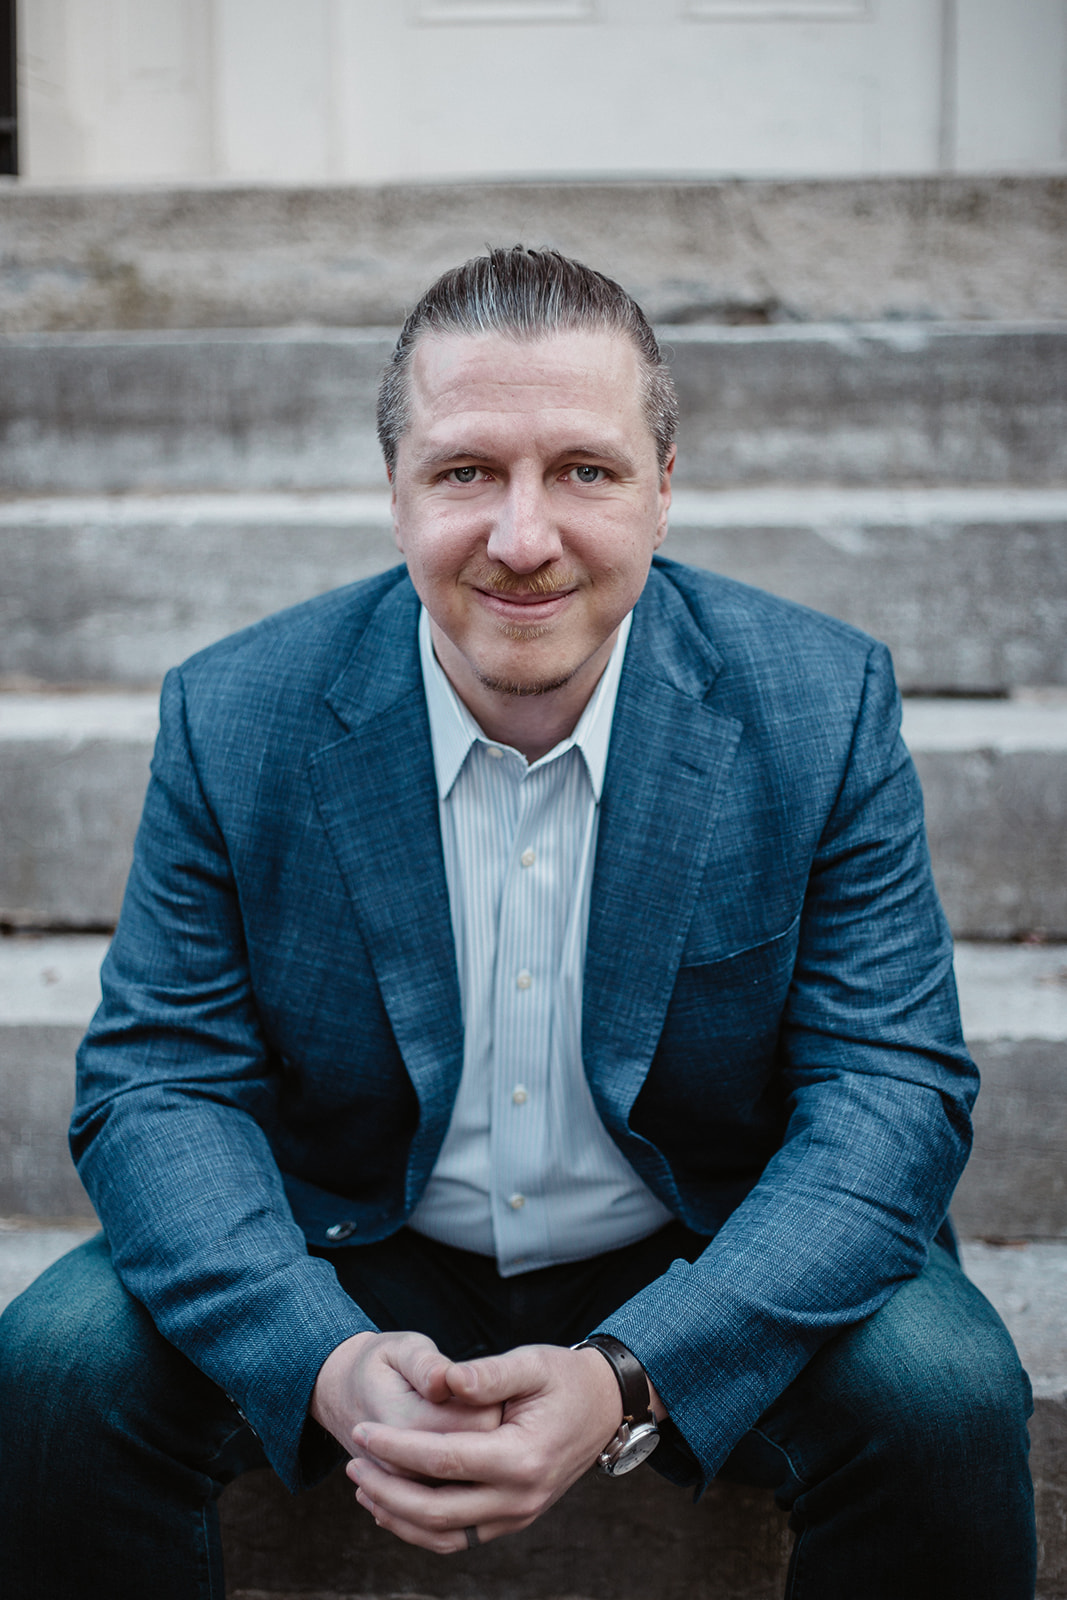
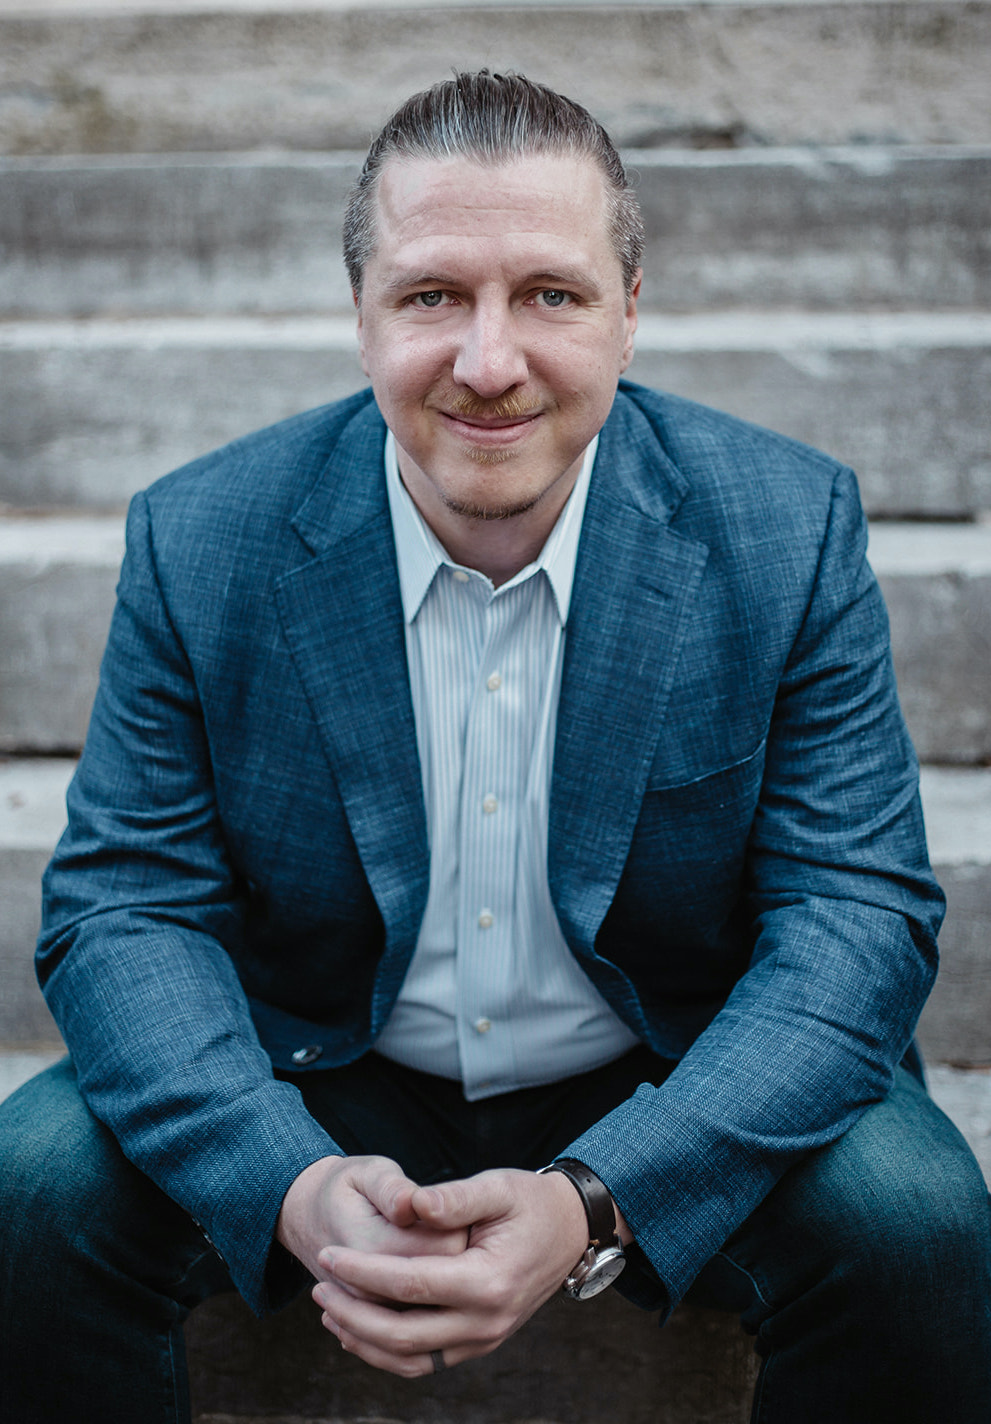
Refine template, styling, and data
- Suppress education and dated experiences
- Change image to cropped version
- Adjust vertical alignment of contact icon + link
- Add print media style overrides

diff --git a/src/resumes/material-dark-extended.vue b/src/resumes/material-dark-extended.vue
@@ -7,29 +7,6 @@
     <div class="section-headline">
       {{ lang.contact }}
     </div>
-    <div v-if="person.birth" class="item">
-      <div class="icon">
-        <i class="material-icons">account_circle</i>
-      </div>
-      <div class="text">
-        <ul>
-          <li> {{ lang.born }} {{person.birth.year}} {{ lang.bornIn }} {{person.birth.location}}</li>
-        </ul>
-      </div>
-    </div>
-
-    <div class="item">
-      <div class="icon">
-        <i class="material-icons">location_city</i>
-      </div>
-      <div class="text">
-        <ul>
-          <li>{{person.contact.street}}</li>
-          <li>{{person.contact.city}}</li>
-        </ul>
-      </div>
-    </div>
-
     <a :href="contactLinks.phone">
       <div class="item">
         <div class="icon">
@@ -57,7 +34,7 @@
         <div class="icon">
           <i class="fa fa-github"></i>
         </div>
-        <div class="text">
+        <div class="text github">
           <span>@{{person.contact.github}}</span>
           <span>github.com/{{person.contact.github}}</span>
         </div>
@@ -75,15 +52,31 @@
       </div>
     </a>
 
-    <div class="item last">
+    <div class="item">
       <div class="section-headline">
-        {{ lang.skills }}
+        {{ lang.languages }}
       </div>
-      <div class="skill" v-for="skill in person.skills" :key="skill.name">
+      <div class="skill" v-for="language in person.languages" :key="language.name">
         <div class="right">
-          <span>{{skill.name}}&nbsp;</span>
+          <span>{{language.name}}&nbsp;</span>
           <div class="progress">
-            <div class="determinate" :style="'width: '+skill.level+'%;'">
+            <div class="determinate" :style="'width: '+language.level+'%;'">
+              <i class="fa fa-circle"></i>
+            </div>
+          </div>
+        </div>
+      </div>
+    </div>
+
+    <div class="item last">
+      <div class="section-headline tools">
+        {{ lang.tools }}
+      </div>
+      <div class="skill" v-for="tool in person.tools" :key="tool.name">
+        <div class="right">
+          <span>{{tool.name}}&nbsp;</span>
+          <div class="progress">
+            <div class="determinate" :style="'width: '+tool.level+'%;'">
               <i class="fa fa-circle"></i>
             </div>
           </div>
@@ -106,17 +99,13 @@
       <div class="block-helper"></div>
       <h3 class="headline">{{experience.position}} - {{experience.company}}</h3>
         <div class="subheadline">{{experience.timeperiod}}</div>
-        <p class="info" v-for="item in experience.description">
-          {{item}}
-        </p>
+        <p class="info" v-for="item in experience.description">{{item}}</p>
     </div>
-    <div class="section-headline">{{ lang.education }}</div>
+    <div class="section-headline" v-if="person.education">{{ lang.education }}</div>
     <div class="block" v-for="education in person.education" :key="education.degree">
       <div class="block-helper"></div>
       <div class="headline">{{education.degree}}</div>
-      <p class="info">
-        {{education.timeperiod}}, {{education.description}}
-      </p>
+      <div class="subheadline">{{education.timeperiod}}</div>
     </div>
   </div>
 
@@ -150,13 +139,12 @@ a {
 }
 .title {
   right:25px;
-  padding-left:20px;
   padding-top:20px;
   bottom:25px;
   h2 {
     text-transform:uppercase;
     display:block;
-    font-size:1.17em;
+    font-size:23pt;
     -webkit-margin-before:1em;
     -webkit-margin-after:0;
     -webkit-margin-start:0;
@@ -183,7 +171,7 @@ a {
     color:rgba(63,61,60,0.71);
     display:block;
     font-size:0.67em;
-    font-size:10pt;
+    font-size:15pt;
     -webkit-margin-before:0;
     -webkit-margin-after:1em;
     -webkit-margin-start:0;
@@ -203,11 +191,8 @@ a {
   text-transform:uppercase;
   font-weight:500;
   letter-spacing:3px;
-  font-size:10pt;
+  font-size:15pt;
   opacity:0.8;
-  margin-left:20px;
-  margin-top:40px;
-  margin-bottom:20px;
   color:#3f3d3c;
 }
 .c {
@@ -264,37 +249,49 @@ h4 {
   opacity:1;
 }
 .rightCol {
-  width:63.5%;
+  width:65%;
   height:100%;
   float:right;
   display:flex;
   flex-direction:column;
+  margin-right: 1%;
+  .section-headline {
+    margin-top:30px;
+    margin-bottom:10px;
+  }
   .block {
     width:90%;
     position:relative;
     background-color:#ffffff;
     padding:20px;
-    margin-top:5px;
-    margin-bottom:5px;
+    margin-top:22px;
+    margin-bottom:22px;
     display:inline-block;
     box-shadow:0 2px 5px 0 rgba(0,0,0,0.16), 0 2px 10px 0 rgba(0,0,0,0.12);
     .headline {
-      font-weight:300;
+      font-weight:400;
       display:block;
-      font-size:15px;
-      color:rgba(0,0,0,0.870588);
+      font-size:18px;
+      color:rgba(0,0,0,0.7);
     }
     .subheadline {
       color:rgba(0,0,0,0.541176);
       display:block;
       font-size:14px;
       font-weight:300;
+      padding-top: 3px;
     }
     .info {
       font-size:14px;
       color:rgba(0,0,0,0.870588);
       margin-bottom:0;
-      padding-top:20px;
+      padding:20px 15px 0 15px;
+    }
+    p.info:before {
+      font-family: 'FontAwesome';
+      content: '\f105';
+      margin:0 7px 0 -13px;
+      font-weight: bold;
     }
     .icon {
       width:16%;
@@ -342,7 +339,7 @@ h4 {
   }
 }
 .leftCol {
-  width:35%;
+  width:30%;
   height:100%;
   float:left;
   padding:0;
@@ -354,6 +351,9 @@ h4 {
   display:block;
   .section-headline {
     color:rgba(255,255,255,0.54);
+    padding-left: 15px;
+    margin-top:40px;
+    margin-bottom:20px;
   }
   a {
     color:rgba(255,255,255,0.59);
@@ -366,7 +366,7 @@ h4 {
     background-position:center;
     position:relative;
     width:100%;
-    height:277px;
+    height:440px;
   }
   .item {
     width:100%;
@@ -380,11 +380,14 @@ h4 {
       width:20%;
       float:left;
     }
+    .text.github {
+      padding-top: 0;
+    }
     .text {
       float:right;
       width:69%;
       padding-right:10%;
-      padding-top:0;
+      padding-top:4px;
       display:block;
       font-size:15px;
       font-weight:300;
@@ -456,5 +459,37 @@ h4 {
 #githubIcon {
   width:25px;
   padding-left:17px;
+}
+
+@media print {
+  .title {
+   padding-top: 10px;
+  }
+  .rightCol {
+    .block {
+      box-shadow: none;
+    }
+  }
+  .leftCol {
+    width: 33%;
+    .section-headline.tools {
+      margin-top: 23px;
+    }
+    .heading {
+      height: 360px;
+    }
+  }
+  .rightCol {
+    width: 64%;
+    .section-headline {
+      margin-top:10px;
+    }
+    .block {
+      margin-top: 12px;
+      .info {
+        padding: 10px 15px 5px 15px;
+      }
+    }
+  }
 }
 </style>

diff --git a/src/lang/en.js b/src/lang/en.js
@@ -5,7 +5,9 @@ const lang = {
     bornIn: 'in',
     experience: 'Experience',
     education: 'Education',
+    languages: 'Languages',
     skills: 'Skills',
+    tools: 'Tools',
     projects: 'Projects',
     contributions: 'Contributions',
     about: 'About me'

diff --git a/src/pages/resume.vue b/src/pages/resume.vue
@@ -37,10 +37,5 @@ export default Vue.component('resume', {
 
 .page {
   background: white;
-  position: relative;
-  width: 21cm;
-  display: block;
-  page-break-after: auto;
-  overflow: hidden;
 }
 </style>
